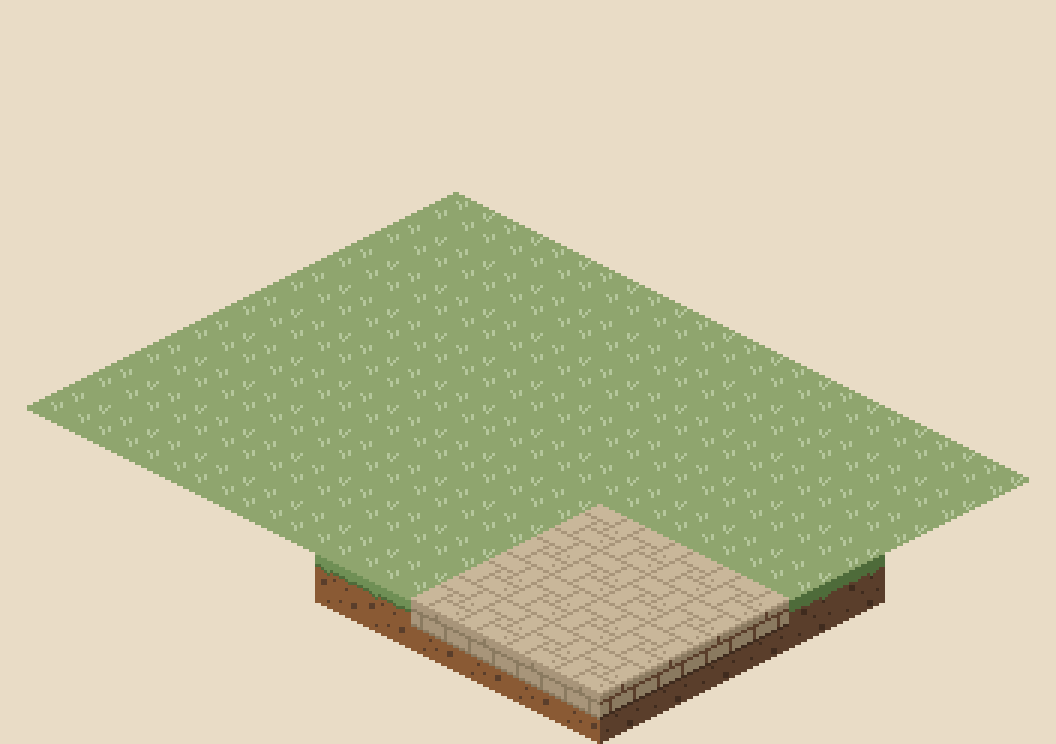
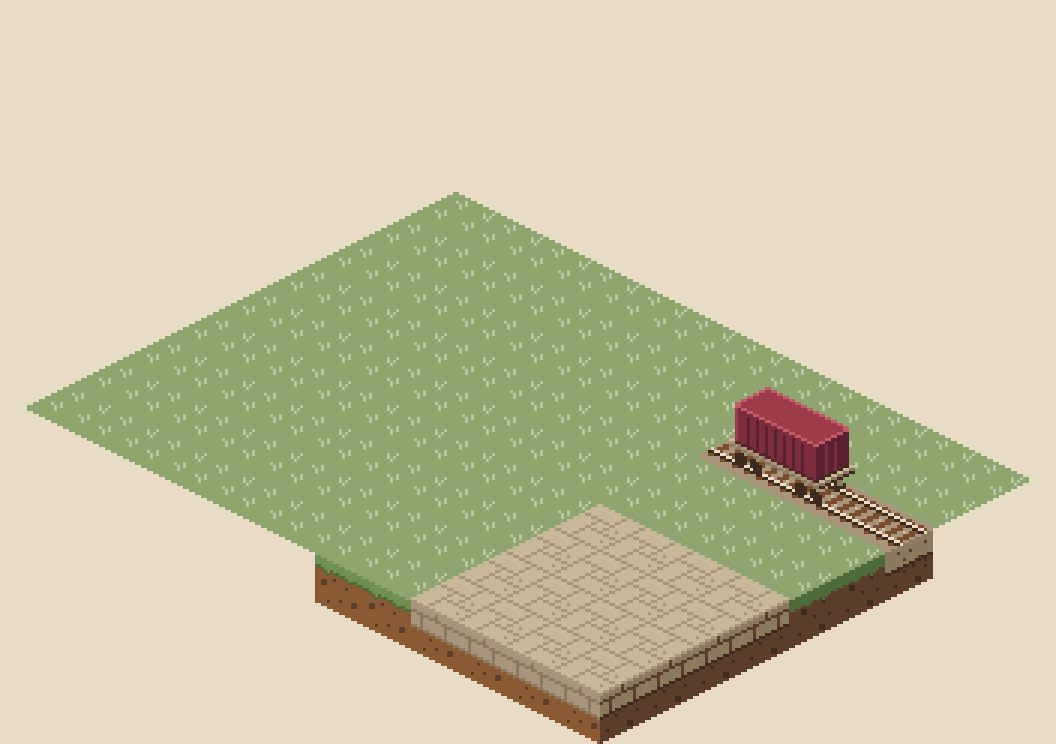
art: railway track, its cliff cube and the flatcar for the island level up

Changed region(s): [[0.6562, 0.5255, 0.9062, 0.8038]]

diff --git a/docs/intents/2026-10-island-level-up/art-brief.md b/docs/intents/2026-10-island-level-up/art-brief.md
@@ -100,3 +100,5 @@ A pose is its own object named `<name>-<pose>`, with the same anchor: `extends` 
 - The rail section's objects go on `scenes/island-level-up-rail.mjs`.
 - `block-yard` (with `-left` and `-right`): `path-2` pinwheel flagstones and an 8-row stone band (rows 0–7) over the grass cube's soil body (rows 8–15), about 1 KB per cube in a patch. `block-rail` swaps rows 0–7 of `block-yard-right` for its ballast band and re-copies left column 14 from right column 0.
 - The rail board has about 26 KB of its 100 KB preview budget left after run 15, so the rail runs keep their board placements lean.
+- `track` is a flat `path-3` ballast block (col axis): rails 8 units apart at v ±4, rail head at z = 1, about 1.3 KB per tile, laid over a ground cube like `path`. `block-rail` keeps the yard's 8-row band depth with a ballast band and a `soil-4` last row at row 7.
+- `flatcar` is 42×27, anchor [21, 19] at its footprint's ground centre: deck 30 units long and 12 wide, top at z = 9, wheel discs at u ±7.5 and ±12.5 on the near rail, `soil-4` couplers 2 units long at both ends. The `container` goes at the flatcar's point + (0, −9).
